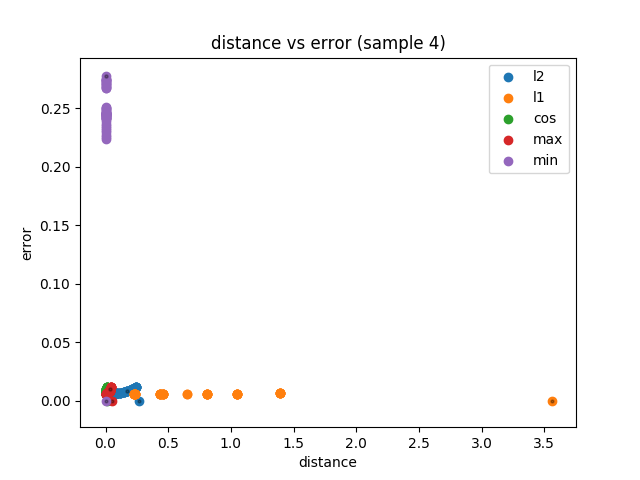
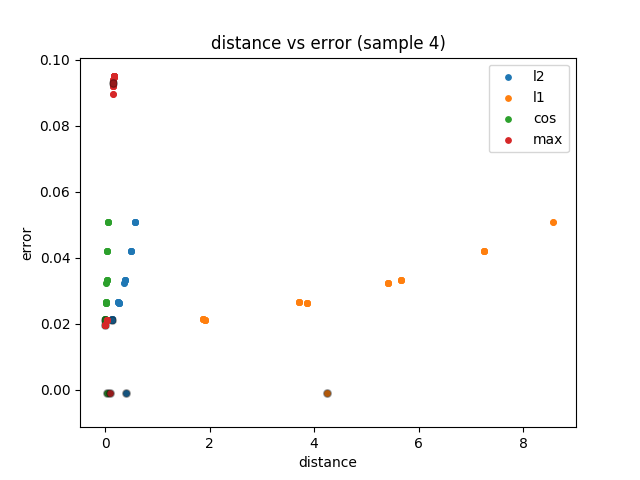
t

diff --git a/RNN/utils/association_evaluation.py b/RNN/utils/association_evaluation.py
@@ -473,7 +473,7 @@ from scipy.spatial import distance
 def plot_best_distance_function(model, data, data_iterator, n=50):
 	idx = np.random.choice(data.shape[0], n, replace=False)
 	enc = metrics.__get_latent_reps(model.encoder, data[idx], model.MODEL_CODE, n=model.hierarchies)
-	N = 5
+	N = 4
 
 	# score = np.zeros((N,n))
 	# for i in range(N):
@@ -506,11 +506,11 @@ def plot_best_distance_function(model, data, data_iterator, n=50):
 			for k in range(n):
 				errors[i,k] = metrics.__pose_seq_error(preds[k,:,:-model.label_dim],data[idx[j],:,:-model.label_dim])
 				dists[i,k] = metrics.__distance__(ls[w_i[k]], z_true, mode=i)
-			errors[i,-1] = -0.5
+			errors[i,-1] = -0.001
 			dists[i,-1] = metrics.__distance__(ls[w_i[0]], z_ref, mode=i)
-			plt.scatter(dists[i], errors[i], label=dist_name, s=10)
-			plt.scatter(dists[i,:1], errors[i,:1], c='black', alpha='0.3', s=15)
-			plt.scatter(dists[i,-1:], errors[i,-1:], c='black', alpha='0.3', s=15)
+			plt.scatter(dists[i], errors[i], label=dist_name, s=15)
+			plt.scatter(dists[i,:1], errors[i,:1], c='black', alpha='0.3', s=30)
+			plt.scatter(dists[i,-1:], errors[i,-1:], c='black', alpha='0.3', s=30)
 
 		# for k in range(n):
 		# 	plt.plot(dists[:,k], errors[:,k], lw=2, alpha=0.5, color='black', ls='--')
